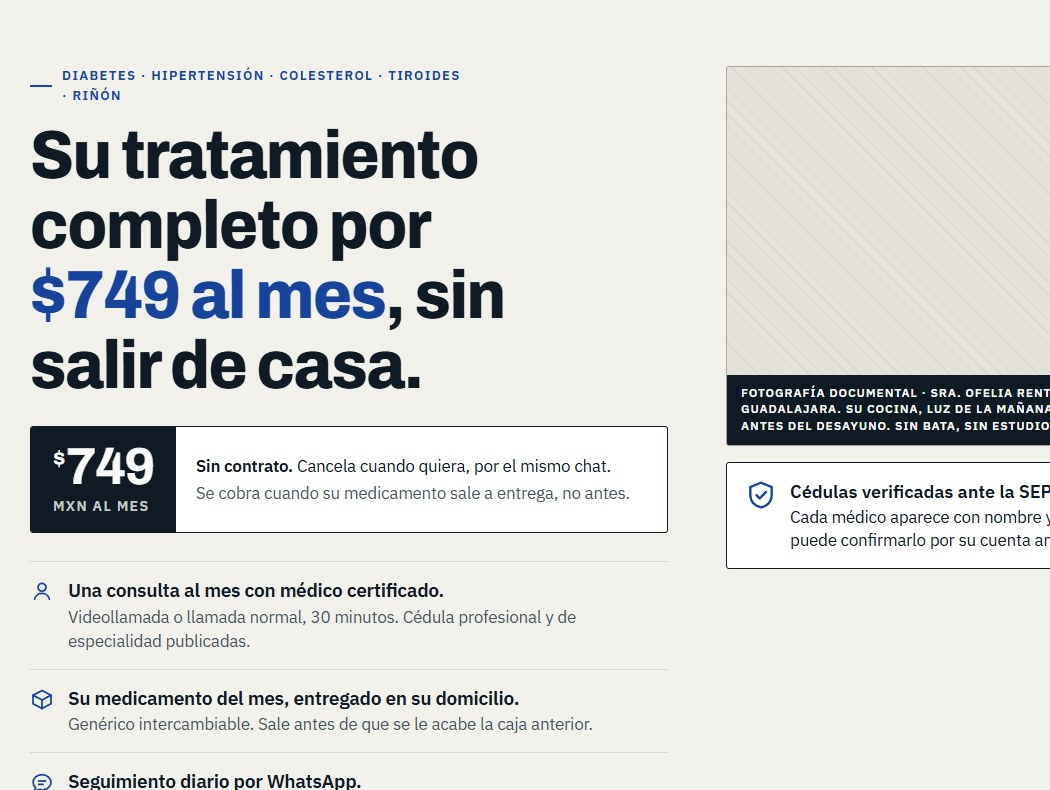
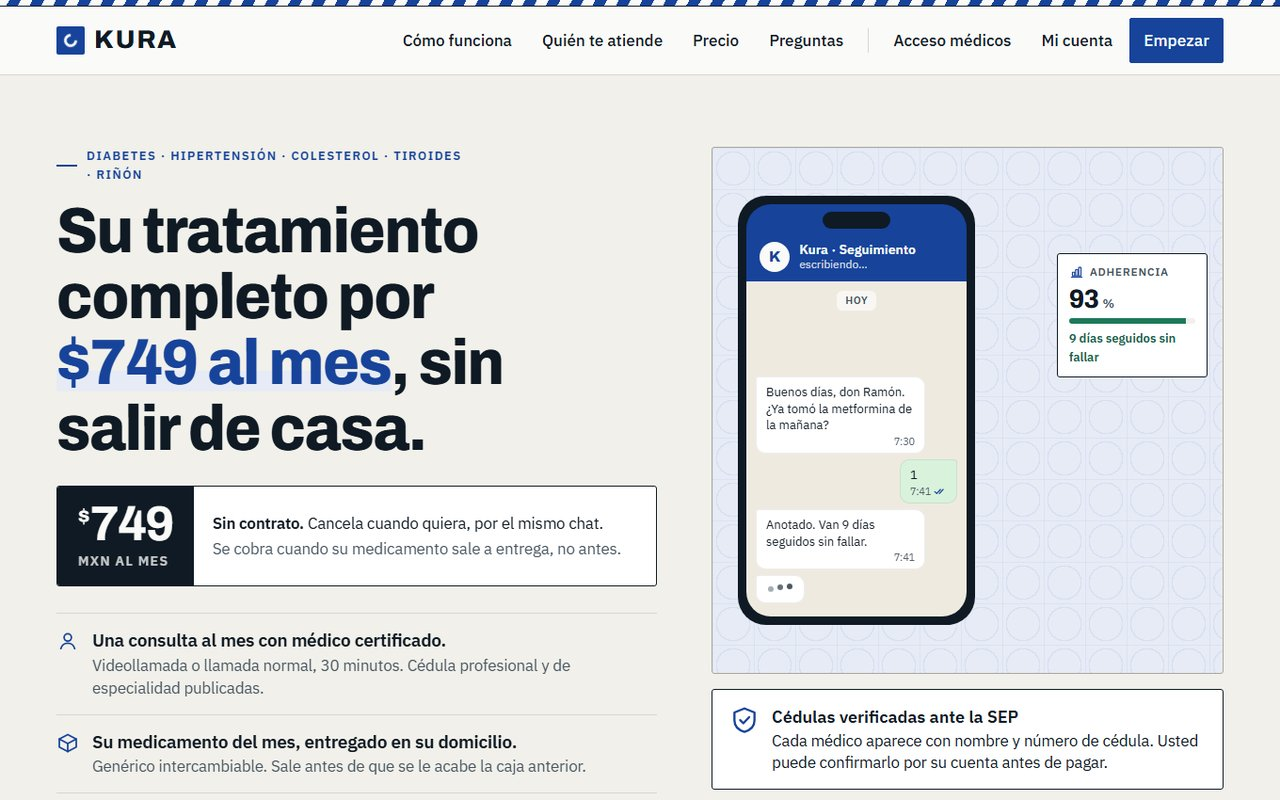
feat: ficha de Kura al día con Kiura y la final de InnovaHealth
- Resumen y descripción cuentan lo construido en octubre: Kiura acompaña al
  paciente entre consultas y avisa al médico cuando una cifra sale de rango,
  panel médico en vivo y videollamada dentro de la plataforma.
- Tres highlights: reglas clínicas deterministas, corrección auditable de
  mediciones y la pantalla del piloto con QR.
- Finalista del Track 3 de InnovaHealth 2026, también en la trayectoria.
- Captura nueva de producción con la escena animada del hero.

diff --git a/src/data/projects.ts b/src/data/projects.ts
@@ -194,17 +194,22 @@ export const projects: Project[] = [
     year: '2026',
     status: 'LIVE',
     category: 'salud',
-    tech: ['React', 'TypeScript', 'Vite', 'Node.js', 'PostgreSQL', 'Neon', 'Vercel'],
+    tech: ['React', 'TypeScript', 'Vite', 'Node.js', 'Express', 'PostgreSQL', 'Neon', 'Gemini', 'Vercel'],
     link: 'https://kura-salud.vercel.app',
     image: '/img/screenshot-kura.jpg',
     summary: {
-      es: 'Telemedicina por suscripción para enfermedades crónicas en México. Hackathon InnovaHealth 2026.',
-      en: 'Subscription telemedicine for chronic conditions in Mexico. InnovaHealth 2026 hackathon.',
+      es: 'Telemedicina por suscripción para enfermedades crónicas, con Kiura, una asistente que acompaña al paciente entre consultas. Ronda final de InnovaHealth 2026.',
+      en: 'Subscription telemedicine for chronic conditions, with Kiura, an assistant that walks with the patient between visits. Final round of InnovaHealth 2026.',
     },
     description: {
-      es: 'Telemedicina por suscripción para personas con enfermedades crónicas —diabetes tipo 2, hipertensión, sobrepeso, dislipidemia, hipotiroidismo y enfermedad renal crónica—: consulta al mes con médico certificado, medicamento entregado en casa y acompañamiento diario entre consultas. Proyecto de equipo para el hackathon InnovaHealth 2026 (CNIB, Oaxaca); yo llevo el frontend y el alcance clínico.',
-      en: 'Subscription telemedicine for people with chronic conditions —type 2 diabetes, hypertension, overweight, dyslipidemia, hypothyroidism and chronic kidney disease—: a monthly visit with a certified doctor, medication delivered at home and daily follow-up in between. A team project for the InnovaHealth 2026 hackathon (CNIB, Oaxaca); I own the frontend and the clinical scope.',
+      es: 'Telemedicina por suscripción para personas con enfermedades crónicas —diabetes tipo 2, hipertensión, sobrepeso, dislipidemia, hipotiroidismo y enfermedad renal crónica—: consulta al mes con médico certificado, medicamento entregado en casa y acompañamiento diario entre consultas. Entre consulta y consulta el paciente habla con Kiura: le recuerda su medicamento, anota sus mediciones y, si una cifra sale de rango, le avisa a su médico al momento. El médico trabaja desde un panel que se actualiza solo y da la consulta por videollamada dentro de la misma plataforma. Proyecto de equipo para InnovaHealth 2026 (CNIB, Oaxaca), finalista del Track 3 entre tres equipos; yo llevo el frontend y el alcance clínico.',
+      en: 'Subscription telemedicine for people with chronic conditions —type 2 diabetes, hypertension, overweight, dyslipidemia, hypothyroidism and chronic kidney disease—: a monthly visit with a certified doctor, medication delivered at home and daily follow-up in between. Between visits the patient talks to Kiura: she reminds them of their medication, logs their readings and, when a reading falls out of range, alerts their doctor right away. The doctor works from a panel that updates on its own and runs the visit by video call inside the same platform. A team project for InnovaHealth 2026 (CNIB, Oaxaca), one of three finalists in Track 3; I own the frontend and the clinical scope.',
     },
+    highlights: [
+      { es: 'Reglas clínicas deterministas: una crisis hipertensiva abre la alerta y el guion al instante, sin esperar al modelo.', en: 'Deterministic clinical rules: a hypertensive crisis opens the alert and the script instantly, without waiting on the model.' },
+      { es: 'Panel médico en vivo, videollamada con el expediente al lado y corrección auditable de mediciones mal dictadas.', en: 'Live doctor panel, video visits with the record side by side and auditable correction of misdictated readings.' },
+      { es: 'Pantalla del piloto proyectable con métricas en vivo y un QR para que el jurado le escriba al paciente demo.', en: 'Projectable pilot screen with live metrics and a QR code so the jury can text the demo patient.' },
+    ],
   },
   {
     id: 'just2know',

diff --git a/src/data/timeline.ts b/src/data/timeline.ts
@@ -31,8 +31,8 @@ export const timeline: TimelineItem[] = [
     title: { es: 'Competencias y hackatones', en: 'Competitions and hackathons' },
     badge: { es: '2.º lugar — Talent Land 2026', en: '2nd place — Talent Land 2026' },
     body: {
-      es: 'Tres años seguidos compitiendo. Talent Land México 2026: segundo lugar en la pista del Technology Development Program de Capital One, con el equipo Amigos de Timmy, en el Tec de Monterrey campus Santa Fe. Antes, dos ediciones del NASA Space Apps Challenge en Boca del Río: un planetario de realidad aumentada construido en 48 horas con Unity y Vuforia (2024) y Life Zones (2025). Compitiendo se trabaja distinto: alcance recortado a lo esencial, decisiones técnicas en minutos y algo funcionando cuando se acaba el tiempo.',
-      en: 'Three years competing in a row. Talent Land México 2026: second place in Capital One’s Technology Development Program track, with the Amigos de Timmy team, at Tec de Monterrey Santa Fe. Before that, two editions of the NASA Space Apps Challenge in Boca del Río: an augmented reality planetarium built in 48 hours with Unity and Vuforia (2024) and Life Zones (2025). Competing means working differently: scope cut to the essentials, technical decisions in minutes, and something running when time is up.',
+      es: 'Tres años seguidos compitiendo. Talent Land México 2026: segundo lugar en la pista del Technology Development Program de Capital One, con el equipo Amigos de Timmy, en el Tec de Monterrey campus Santa Fe. InnovaHealth 2026 en el CNIB de Oaxaca: ronda final del Track 3 con Kura, telemedicina para enfermedades crónicas. Antes, dos ediciones del NASA Space Apps Challenge en Boca del Río: un planetario de realidad aumentada construido en 48 horas con Unity y Vuforia (2024) y Life Zones (2025). Compitiendo se trabaja distinto: alcance recortado a lo esencial, decisiones técnicas en minutos y algo funcionando cuando se acaba el tiempo.',
+      en: 'Three years competing in a row. Talent Land México 2026: second place in Capital One’s Technology Development Program track, with the Amigos de Timmy team, at Tec de Monterrey Santa Fe. InnovaHealth 2026 at CNIB Oaxaca: Track 3 final round with Kura, telemedicine for chronic conditions. Before that, two editions of the NASA Space Apps Challenge in Boca del Río: an augmented reality planetarium built in 48 hours with Unity and Vuforia (2024) and Life Zones (2025). Competing means working differently: scope cut to the essentials, technical decisions in minutes, and something running when time is up.',
     },
   },
   {
